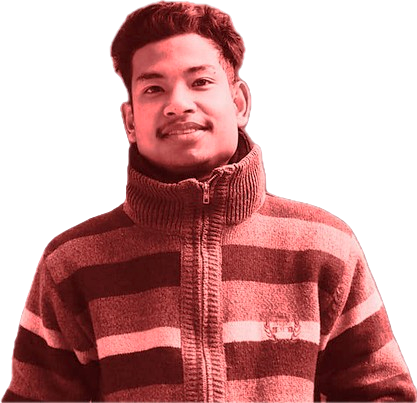
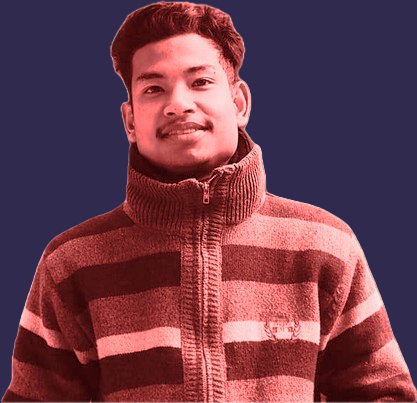
all done may be

diff --git a/index.html b/index.html
@@ -8,6 +8,9 @@
     <link rel="stylesheet" href="style.css">
 
     <link href="https://cdn.jsdelivr.net/npm/remixicon@4.2.0/fonts/remixicon.css" rel="stylesheet" />
+
+
+    <link rel="stylesheet" href="https://unpkg.com/sheryjs/dist/Shery.css" /> <!-- Recommended -->
 </head>
 
 <body>
@@ -16,7 +19,7 @@
 
 
         <div class="left">
-            <div>
+            <div class="bigText">
                 <h1>Dipanshu</h1>
                 <h1>Khadka</h1>
             </div>
@@ -24,17 +27,18 @@
                 Hello my name is Dipanshu khdaka i am a Bca Student also working as a Teacher.
             </p>
             <div class="socialmedia">
-                <a href="">
+                <a href="https://www.facebook.com/dipanshu.khadka.1" target="_blank">
                     <i class="ri-facebook-circle-fill"></i>
                     <span>
                         facebook
                     </span>
                 </a>
-                <a href="">
+                <a href="https://www.instagram.com/DIPANSHU.KHADKA11?fbclid=IwAR3j4k5V2-aeecqPmaXL8xLtSIvFXV1Aau541GBaStoVS0JnPb9WYsKVjGw"
+                    target="_blank">
                     <i class="ri-instagram-fill"></i>
                     <span>instagram</span>
                 </a>
-                <a href="">
+                <a href="#">
                     <i class="ri-whatsapp-fill"></i>
                     <span>
                         whatsapp
@@ -43,7 +47,7 @@
             </div>
         </div>
         <div class="dipansuImage">
-            <img src="/Images/dipanshu.png" alt="">
+            <img class="image" src="/Images/dipanshu.png" alt="">
         </div>
 
         <div class="right">
@@ -59,15 +63,15 @@
                 <h1>02</h1>
                 <h2>Find Me</h2>
                 <div class="findme">
-                    <a href="">
+                    <a>
                         <i class="ri-mail-fill"></i>
                         <span>dipanshu@gmail.com</span>
                     </a>
-                    <a href="">
+                    <a>
                         <i class="ri-map-pin-2-fill"></i>
                         <span>Hetauda</span>
                     </a>
-                    <a href="">
+                    <a>
                         <i class="ri-phone-fill"></i>
                         <span>9809090909</span>
                     </a>
@@ -77,6 +81,29 @@
 
 
     </div>
+
+
+
+
+
+    <!--  Gsap is needed for Basic Effects -->
+    <script src="https://cdnjs.cloudflare.com/ajax/libs/gsap/3.12.2/gsap.min.js"></script>
+
+    <!-- Scroll Trigger is needed for Scroll Effects -->
+    <script src="https://cdnjs.cloudflare.com/ajax/libs/gsap/3.12.2/ScrollTrigger.min.js"></script>
+
+    <!-- Three.js is needed for 3d Effects -->
+    <script src="https://cdnjs.cloudflare.com/ajax/libs/three.js/0.155.0/three.min.js"></script>
+
+    <!-- ControlKit is needed for Debug Panel -->
+    <script src="https://cdn.jsdelivr.net/gh/automat/controlkit.js@master/bin/controlKit.min.js"></script>
+
+    <script type="text/javascript" src="https://unpkg.com/sheryjs/dist/Shery.js"></script> <!-- Recommended -->
+
+
+    <script type="text/javascript" src="https://unpkg.com/sheryjs/dist/Shery.js"></script> <!-- Recommended -->
+
+    <script src="script.js"></script>
 </body>
 
 </html>

diff --git a/script.js b/script.js
@@ -1,0 +1,43 @@
+Shery.textAnimate(" h1 " /* Element to target.*/, {
+    //Parameters are optional.
+    style: 1,
+    y: 10,
+    delay: 0.1,
+    duration: 2,
+    ease: "cubic-bezier(0.23, 1, 0.320, 1)",
+    // multiplier: 0.1,
+});
+
+gsap.from(".dipansuImage",
+    {
+        y: 100,
+        stagger: .3,
+        opacity: 0,
+        ease: Expo,
+        duration: 2
+    })
+gsap.from(".right .div",
+    {
+        x: 30,
+        stagger: .6,
+        opacity: 0,
+        ease: Expo,
+        duration: 2
+    })
+
+gsap.from(".socialmedia ",
+    {
+        y: 30,
+        stagger: .6,
+        opacity: 0,
+        ease: Expo,
+        duration: 2
+    })
+
+
+Shery.imageEffect(".dipansuImage",
+    {
+        style: 3,
+        config: { "uFrequencyX": { "value": 12, "range": [0, 100] }, "uFrequencyY": { "value": 87.02, "range": [0, 100] }, "uFrequencyZ": { "value": 10, "range": [0, 100] }, "geoVertex": { "range": [1, 64], "value": 54.38 }, "zindex": { "value": "9996999", "range": [-9999999, 9999999] }, "aspect": { "value": 1.034735931204197 }, "ignoreShapeAspect": { "value": true }, "shapePosition": { "value": { "x": 0, "y": 0 } }, "shapeScale": { "value": { "x": 0.5, "y": 0.5 } }, "shapeEdgeSoftness": { "value": 0, "range": [0, 0.5] }, "shapeRadius": { "value": 0, "range": [0, 2] }, "currentScroll": { "value": 0 }, "scrollLerp": { "value": 0.07 }, "gooey": { "value": false }, "infiniteGooey": { "value": false }, "growSize": { "value": 4, "range": [1, 15] }, "durationOut": { "value": 1, "range": [0.1, 5] }, "durationIn": { "value": 1.5, "range": [0.1, 5] }, "displaceAmount": { "value": 0.5 }, "masker": { "value": false }, "maskVal": { "value": 1, "range": [1, 5] }, "scrollType": { "value": 1 }, "noEffectGooey": { "value": true }, "onMouse": { "value": 0 }, "noise_speed": { "value": 0.2, "range": [0, 10] }, "metaball": { "value": 0.2, "range": [0, 2] }, "discard_threshold": { "value": 0.5, "range": [0, 1] }, "antialias_threshold": { "value": 0.002, "range": [0, 0.1] }, "noise_height": { "value": 0.5, "range": [0, 2] }, "noise_scale": { "value": 10, "range": [0, 100] }, "uColor": { "value": true }, "uSpeed": { "value": 1, "range": [0.1, 1], "rangep": [1, 10] }, "uAmplitude": { "value": 1.5, "range": [0, 5] }, "uFrequency": { "value": 3.5, "range": [0, 10] } },
+    })
+

diff --git a/style.css b/style.css
@@ -4,6 +4,7 @@
     box-sizing: border-box;
     list-style: none;
     text-decoration: none;
+    user-select: none;
 }
 
 
@@ -42,11 +43,11 @@
     left: 55%;
     bottom: -10px;
     transform: translate(-50%, 0%);
-
+    background: transparent;
 }
 
 .dipansuImage img {
-    filter: drop-shadow(1px 1px 10px #1f1b34);
+    /* filter: drop-shadow(1px 1px 10px #1f1b34); */
     opacity: .9;
 }
 
@@ -74,6 +75,7 @@
     line-height: 9vw;
     letter-spacing: -6px;
     font-family: bigText;
+    text-wrap: nowrap;
 
 }
 
@@ -104,6 +106,12 @@ p {
     display: flex;
     gap: 8px;
     align-items: center;
+    opacity: .9;
+    transition: .3s ease-in-out;
+}
+
+.socialmedia a:hover {
+    color: #f07497;
 }
 
 .right {
@@ -165,4 +173,67 @@ p {
 
 .right .findme a span {
     letter-spacing: 1px;
+}
+
+@media(max-width:768px) {
+    .dipansuImage {
+        display: none;
+        transform: translate(200%);
+    }
+
+    #main {
+        flex-direction: column;
+        justify-content: space-between;
+    }
+
+    .left,
+    .right {
+        width: 100%;
+        gap: 1vh;
+        position: relative;
+        z-index: 9999999999;
+    }
+
+    .left {
+        gap: 3vh;
+    }
+
+    p {
+        font-size: 1.8vh;
+        line-height: 3vh;
+    }
+
+    .left div:nth-child(1) h1 {
+        font-size: 8vh;
+        line-height: 8vh;
+        letter-spacing: 3px;
+    }
+
+    .socialmedia {
+        justify-content: center;
+        gap: 3vh;
+    }
+
+    .socialmedia a {
+        font-size: 1.5vh;
+    }
+
+    .right .div {
+        width: 100%;
+        height: fit-content;
+        height: initial;
+        padding: 2vh;
+        gap: 2vh;
+    }
+
+    .right .div p {
+        font-size: 1.8vh;
+        line-height: 3vh;
+    }
+
+    .right .findme a {
+        font-size: 1.8vh;
+        line-height: 3vh;
+    }
+
 }
